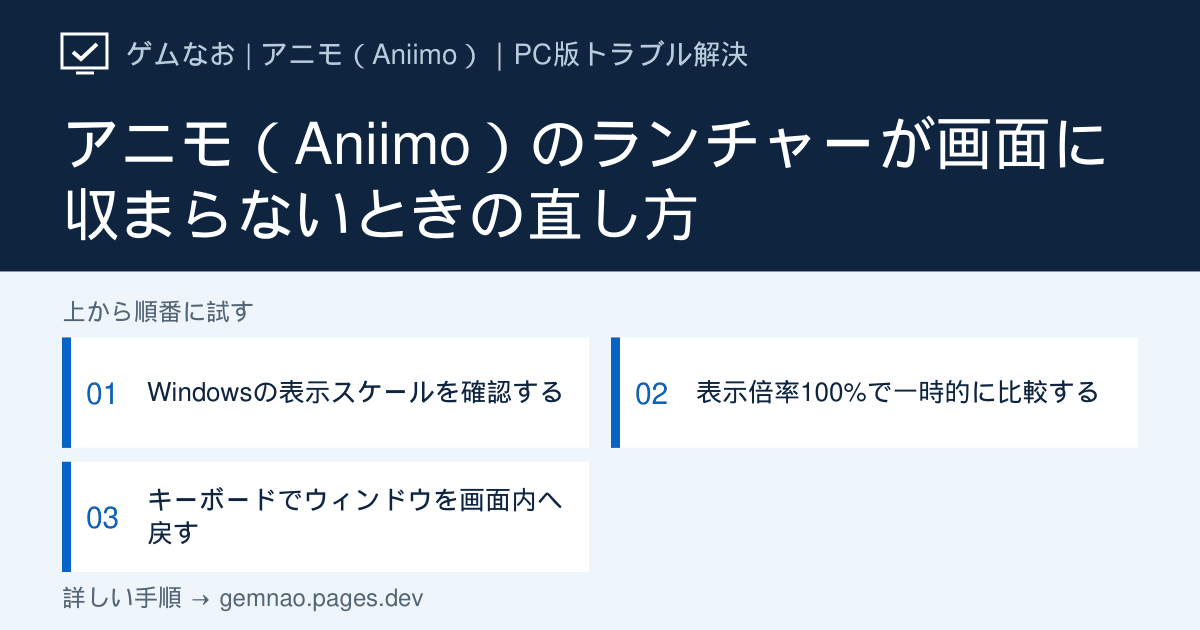
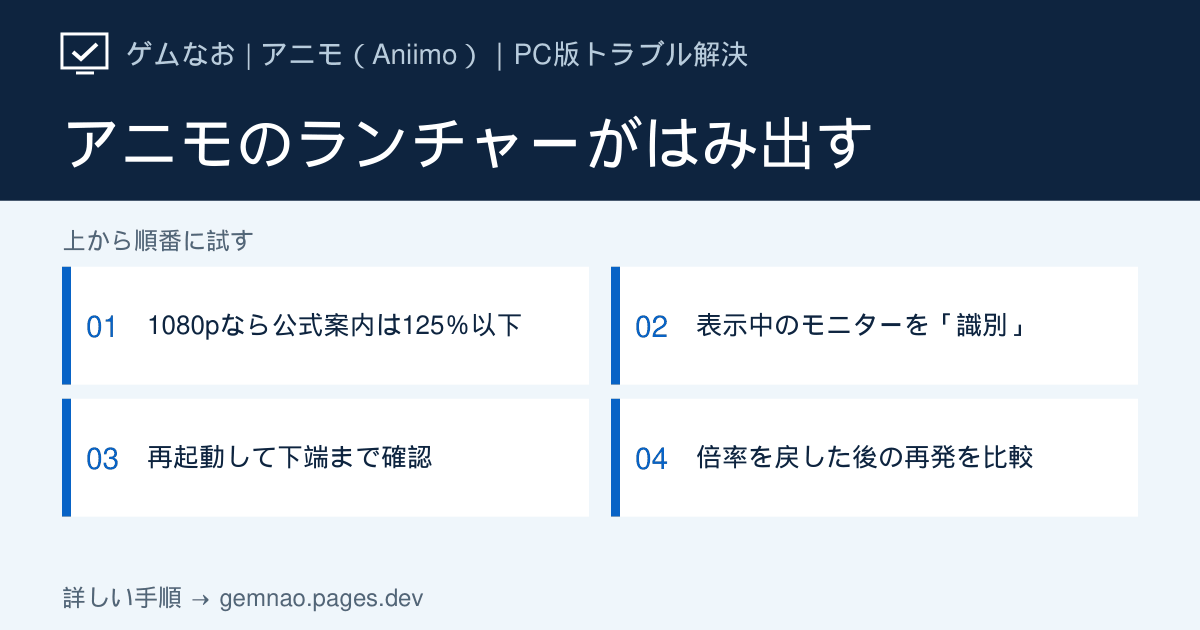
Improve Aniimo launcher display troubleshooting guide

diff --git a/lib/aniimo-articles.ts b/lib/aniimo-articles.ts
@@ -1,7 +1,5 @@
 import type { GameArticle } from '@/lib/game-articles';
 
-const checkedAt = '2026-09-17';
-const targetVersion = 'PC版・正式サービス開始直後（2026年9月17日時点）';
 const officialNews = {
   label: 'Aniimo公式ニュース',
   url: 'https://www.aniimo.com/newslist',
@@ -861,91 +859,200 @@ export const aniimoArticles: GameArticle[] = [
     gameSlug: 'aniimo',
     slug: 'launcher-display',
     category: 'settings',
-    title: 'アニモ（Aniimo）のランチャーが画面に収まらないときの直し方',
-    shortTitle: 'ランチャー表示',
+    title:
+      'アニモ（Aniimo）のランチャーが画面に収まらない｜1080p・複数モニターの直し方',
+    shortTitle: 'ランチャーが画面に収まらない',
     symptom:
-      'ランチャーの下部が切れる、開始ボタンが見えない、ウィンドウを移動できない場合の確認手順です。',
+      '「ゲーム開始」ボタンが見えない、下端が画面外にはみ出す、別のモニターに移すと切れる。ランチャーを表示している画面の解像度と表示スケールを確認します。',
     conclusion:
-      'Windowsの表示スケールを「推奨」へ戻し、ランチャーを再起動します。改善しない場合は一時的に100%で比較し、ウィンドウをキーボードで移動します。',
+      'Aniimo公式FAQは、1080p（1920×1080）の画面では表示スケールを125％以下にするよう案内しています。Windowsの「推奨」が150％ならそのままにせず、ランチャーを表示するモニターを選んで125％にし、終了・再起動して表示を確認してください。',
     description:
-      '高DPIモニターや複数画面では、Windowsの表示倍率とランチャーの大きさが合わないことがあります。まずWindows標準設定だけで、安全に元へ戻せる方法を試します。',
-    checkedAt,
+      '元の倍率を記録してから一つずつ比較します。125％で収まらない場合の100％テスト、複数画面での設定先の見分け方、倍率を元に戻すと再発する場合の選択肢も示します。',
+    checkedAt: '2026-09-27',
     status: 'verified',
-    targetVersion,
+    targetVersion:
+      'Aniimo公式PCランチャー／Windows 11・10（2026年9月27日確認）',
+    quickFacts: [
+      {
+        label: 'Aniimo公式の条件',
+        value: '解像度が1080p（1920×1080）なら表示スケール125％以下',
+      },
+      {
+        label: '変更する画面',
+        value:
+          '「設定」→「システム」→「ディスプレイ」→「識別」でランチャーを表示するモニターを選択',
+      },
+      {
+        label: '試す順番',
+        value:
+          '元の倍率を控える→1080pなら125％→ランチャーを再起動→必要なら100％で比較',
+      },
+      {
+        label: '元に戻すと再発',
+        value:
+          'その倍率で再現するなら、1080pでは125％以下で使用するか、収まる別の画面へ移す',
+      },
+    ],
     causes: [
-      'Windowsの表示スケールがランチャー表示と合っていない',
-      '解像度またはメインディスプレイが切り替わった',
-      'ランチャーが前回の画面外位置を記憶している',
+      '1080pの表示スケールがAniimo公式の案内する125％を超えている',
+      '複数モニターでランチャーがある画面とは別の画面の倍率を変更している',
+      '前回のモニター構成・表示位置が変わり、ウィンドウの一部が画面外に残っている',
     ],
     symptoms: [
-      { label: '開始ボタンが見えない', target: 'recommended-scale' },
-      { label: '下や右が画面外へ出る', target: 'recommended-scale' },
-      { label: 'ウィンドウを移動できない', target: 'move-window' },
+      { label: '1080pで開始ボタンが見えない', target: 'check-display' },
+      { label: '2画面の片方だけで切れる', target: 'compare-monitors' },
+      { label: '125％にしても下端が切れる', target: 'test-100-scale' },
+      { label: 'ウィンドウが画面外にある', target: 'recover-window' },
+      { label: '倍率を元に戻すと再発する', target: 'after-restoring-scale' },
+    ],
+    diagnosis: [
+      {
+        symptom: '1920×1080・表示スケール150％以上で下端が切れる',
+        cause:
+          'Aniimo公式は1080pでは125％以下を案内。まず対象画面の倍率を125％へ',
+        stepId: 'check-display',
+      },
+      {
+        symptom: 'ノートPCでは収まるが外部モニターでは切れる（またはその逆）',
+        cause: '「識別」でランチャーがある画面を選び、解像度と倍率を個別に比較',
+        stepId: 'compare-monitors',
+      },
+      {
+        symptom: '1080p・125％でも切れる',
+        cause: 'いったん100％で表示を比較し、倍率以外の原因と分ける',
+        stepId: 'test-100-scale',
+      },
+      {
+        symptom: 'ランチャーの上部も見えない／モニターを外した後に行方不明',
+        cause: '表示位置の問題を疑い、Windowsのウィンドウ操作で画面内へ戻す',
+        stepId: 'recover-window',
+      },
+      {
+        symptom: '125％では収まるが、150％に戻すとまた切れる',
+        cause: 'その倍率で再現している。利用する倍率・画面を選んで記録',
+        stepId: 'after-restoring-scale',
+      },
     ],
     steps: [
       {
-        id: 'recommended-scale',
-        title: 'Windowsの表示スケールを確認する',
-        summary: 'Windowsが推奨する解像度と倍率へ戻して比較します。',
+        id: 'check-display',
+        title: 'ランチャーがある画面の解像度と倍率を確認する',
+        summary:
+          '1080pなら125％以下が公式案内。Windowsの「推奨」倍率が150％でも、その値を優先しません。',
+        time: '約2分',
+        risk: 'low',
         actions: [
-          'デスクトップを右クリックして「ディスプレイ設定」を開く',
-          '「拡大縮小とレイアウト」で推奨の倍率を選ぶ',
-          'ディスプレイ解像度も「推奨」を選ぶ',
-          'ランチャーを終了して開き直す',
+          'デスクトップの何もない場所を右クリック→「ディスプレイ設定」を開く（または「設定」→「システム」→「ディスプレイ」）',
+          '「ディスプレイの解像度」と「拡大/縮小」または「スケール」を読み、今の値をメモする。1920×1080は1080pに該当する',
+          '1920×1080で表示スケールが150％以上なら、125％へ変更する。Windowsの「推奨」が150％でも、Aniimo公式の1080p向け条件は125％以下',
+          'Aniimoランチャーをいったん終了し、再び開いて「ゲーム開始」ボタンと画面の下端・右端まで見えるか確認する',
+        ],
+        note: '公式の125％以下という条件は1080p向けです。2560×1440や4Kに同じ上限を当てはめず、画面の解像度と現在の倍率を記録して比較してください。',
+      },
+      {
+        id: 'compare-monitors',
+        title: '複数モニターならランチャーを映している画面を選ぶ',
+        summary:
+          'メイン画面の倍率を見ただけでは、外部モニターで切れる原因を判定できません。',
+        time: '約3分',
+        risk: 'low',
+        actions: [
+          '「設定」→「システム」→「ディスプレイ」で「識別」を押し、各モニターに出る番号を確認する',
+          '設定画面上の番号付きモニターから、Aniimoランチャーが実際に表示されている画面を選ぶ。その画面の解像度と表示スケールを控える',
+          '例えばノートPC側が1920×1080・150％、外部モニター側が2560×1440・125％なら、ノートPC側で切れる場合にだけまずノートPCの倍率を125％へ変更する',
+          'もう一方へランチャーを移した場合も、その画面を「識別」で選び直して設定を確認する。画面を移した後はいったん終了・再起動し、どちらの画面で収まるか比べる',
+        ],
+        note: '画面ごとに設定が異なる構成では、変更しなかった側の倍率までまとめて下げる必要はありません。',
+      },
+      {
+        id: 'test-100-scale',
+        title: '1080p・125％でも切れるなら100％で一度だけ比べる',
+        summary:
+          '100％は切り分け用。見やすい倍率を決める前に表示の変化を確かめます。',
+        time: '約2分',
+        risk: 'low',
+        actions: [
+          'ランチャーがある画面を選択したまま、現在の表示スケール（125％など）をメモしてから100％にする',
+          'ランチャーを終了・再起動し、先ほど見えなかったボタンと下端・右端が収まるかを同じ画面で比較する',
+          '100％で収まるなら倍率の影響が考えられる。125％に戻して再起動し、収まる最も読みやすい設定を確認する',
+          '100％でも収まらないなら倍率だけでは解決しないため、次の「画面外から戻す」を試し、それでも切れるなら症状を記録して公式窓口へ相談する',
         ],
       },
       {
-        id: 'compare-100-scale',
-        title: '表示倍率100%で一時的に比較する',
-        summary: '倍率が原因かを確認し、終わったら使いやすい設定へ戻します。',
+        id: 'recover-window',
+        title: 'ウィンドウが画面外なら画面内へ戻す',
+        summary:
+          'タイトルバーが届かないときは、表示倍率の確認とは分けて位置を戻します。',
+        time: '約1分',
+        risk: 'low',
         actions: [
-          '現在の表示倍率をメモする',
-          '表示倍率を一時的に100%へ変更する',
-          'ランチャーを開き直して全体が表示されるか確認する',
-          '確認後、文字が小さすぎる場合は元の倍率へ戻す',
+          'タスクバーのAniimoランチャーをクリックし、対象ウィンドウを選択する',
+          'Alt＋Spaceでウィンドウのメニューを開き、「移動」を選ぶ。メニューの「移動」に M のショートカットが表示される場合は M キーでも選べる',
+          '矢印キーを1回押してからマウスを画面内へ動かすか、矢印キーで窓を動かし、見える位置でEnterを押す',
+          'タイトルバーが見えたら、その画面の解像度・表示スケールを改めて確認する。位置は戻ったが下端が切れるなら、倍率の手順に戻る',
         ],
       },
       {
-        id: 'move-window',
-        title: 'キーボードでウィンドウを画面内へ戻す',
-        summary: 'タイトルバーをつかめない場合にWindows標準操作で移動します。',
+        id: 'after-restoring-scale',
+        title: '元の倍率に戻すと再発する場合の決め方',
+        summary:
+          '一時的に直っただけなら、再発する条件を確かめて使える設定を残します。',
+        time: '約3分',
+        risk: 'low',
         actions: [
-          'タスクバーでAniimoランチャーを選ぶ',
-          'AltキーとSpaceキーを同時に押す',
-          'Mキーを押し、矢印キーで画面内へ移動する',
-          'Enterキーで位置を確定する',
+          '「125％では収まる→元の150％に戻して再起動すると切れる」のように、同じモニターと解像度で再発する組み合わせを確認する',
+          '1080pの画面では、公式案内の範囲内で使いやすい125％を選ぶ。100％しか収まらない場合は無理に常用せず、ほかの画面で収まるかも比べる',
+          'モニターを切り替えるたびに再発するなら、各画面の解像度・倍率・再起動後の結果を記録し、使う画面でランチャーを開き直す',
+          '1080p・125％以下でも切れる、または元の倍率が必要で使えない場合は、画面全体が分かるスクリーンショット、モニター番号と解像度・倍率、再現手順を添えてAniimo公式窓口 support_jp@aniimo.com に問い合わせる',
         ],
+        note: 'Windowsの「推奨」倍率は一般的な表示設定の目安です。1080p・150％でAniimoが再発する場合に、推奨表示のまま解決したとみなさないでください。',
       },
     ],
     cautions: [
-      '表示倍率100%は文字が小さくなる場合があります。原因確認後は読みやすい倍率へ戻してください。',
-      '高DPI互換設定を変更する前に、まずWindowsの推奨設定で確認してください。',
+      '100％ではWindowsの文字やボタンが小さくなることがあります。試した後は、ランチャーが収まる範囲で読みやすい倍率を選んでください。',
+      '解像度をむやみに下げると表示がぼやけることがあります。まず現在の解像度と倍率を記録し、倍率を一つずつ比較してください。',
+    ],
+    avoid: [
+      'ランチャーが切れるたびに全モニターの倍率を一度に変更しない。どの画面の設定が効いたか分からなくなります。',
+      '高DPI互換設定の上書きやランチャーファイルの削除を、元の倍率と再現条件を調べる前に行わない。',
     ],
     faqs: [
       {
-        question: 'Aniimoランチャーの開始ボタンが見えないときは？',
+        question: 'Windowsで「推奨」と表示される150％のままでも大丈夫？',
         answer:
-          'Windowsの表示スケールと解像度を「推奨」へ戻し、ランチャーを再起動します。改善しない場合は一時的に100%で比較してください。',
+          '1920×1080の画面でランチャーが収まらない場合、Aniimo公式FAQは125％以下を案内しています。「推奨」が150％でも、対象の画面を選んで125％にし、ランチャーを開き直して比較してください。',
       },
       {
-        question: 'ランチャーが画面外へ出て移動できません',
+        question: '2画面のうち、どちらの倍率を変えればいい？',
         answer:
-          'ランチャーを選択してAlt＋Space、Mの順に押し、矢印キーで画面内へ移動してEnterで確定します。',
+          '「設定」→「システム」→「ディスプレイ」で「識別」を押し、ランチャーが現在映っている画面の番号を選びます。その画面の解像度と倍率を読み、1080pなら125％以下で試します。',
+      },
+      {
+        question: '125％なら直るのに、元の倍率に戻すとまた切れます',
+        answer:
+          '同じモニターで元の倍率に戻して再起動するたびに切れるなら、その倍率が再発条件です。1080pなら125％以下での使用を検討するか、収まる別のモニターに移してください。125％以下でも切れる場合は、解像度・倍率と画面の写真を添えて公式窓口に相談できます。',
       },
     ],
     sources: [
+      pcLaunchFaq,
+      windowsDisplaySettings,
       {
-        label: 'Aniimo公式サイト（PCランチャー）',
-        url: 'https://www.aniimo.com/ja',
+        label: 'Microsoft公式：Windowsで複数のモニターを使用する方法',
+        url: 'https://support.microsoft.com/ja-jp/windows/hardware/display-graphics/how-to-use-multiple-monitors-in-windows',
       },
-      {
-        label: 'Microsoft公式：Windowsの画面解像度とレイアウト変更',
-        url: 'https://support.microsoft.com/windows/change-your-screen-resolution-and-layout-in-windows-5effefe3-2eac-e306-0b5d-2073b765876b',
-      },
+      aniimoRelease,
     ],
     related: related.filter((slug) => slug !== 'launcher-display'),
-    seoTitle: 'アニモ（Aniimo）ランチャーが画面に収まらない時の直し方',
+    seoTitle:
+      'アニモのランチャーが画面に収まらない｜1080pで125％以下・2画面の確認',
     metaDescription:
-      'アニモ（Aniimo）のランチャーが画面に収まらない、開始ボタンが見えない場合の直し方。Windows表示スケールと画面外ウィンドウの戻し方を解説します。',
+      'アニモ（Aniimo）のランチャーが切れて開始ボタンが見えないときは？公式FAQの1080p・表示スケール125％以下を確認。複数モニターで変更する画面、100％比較、倍率を戻すと再発する場合の対応も解説。',
+    ogTitle: 'アニモのランチャーがはみ出す',
+    ogSteps: [
+      '1080pなら公式案内は125％以下',
+      '表示中のモニターを「識別」',
+      '再起動して下端まで確認',
+      '倍率を戻した後の再発を比較',
+    ],
   },
 ];

diff --git a/lib/og-image-manifest.ts b/lib/og-image-manifest.ts
@@ -36,7 +36,7 @@ export const ogImageManifest: Record<string, string> = {
   "/discord/voice-cutting-out": "89f41b0a",
   "/games/aniimo": "30fe6a2d",
   "/games/aniimo/black-screen": "d4ce40f0",
-  "/games/aniimo/launcher-display": "950a3a59",
+  "/games/aniimo/launcher-display": "60776225",
   "/games/aniimo/login-error": "6262e42b",
   "/games/aniimo/not-launching": "0cedb67a",
   "/games/aniimo/video-memory-error": "dadcd94a",
